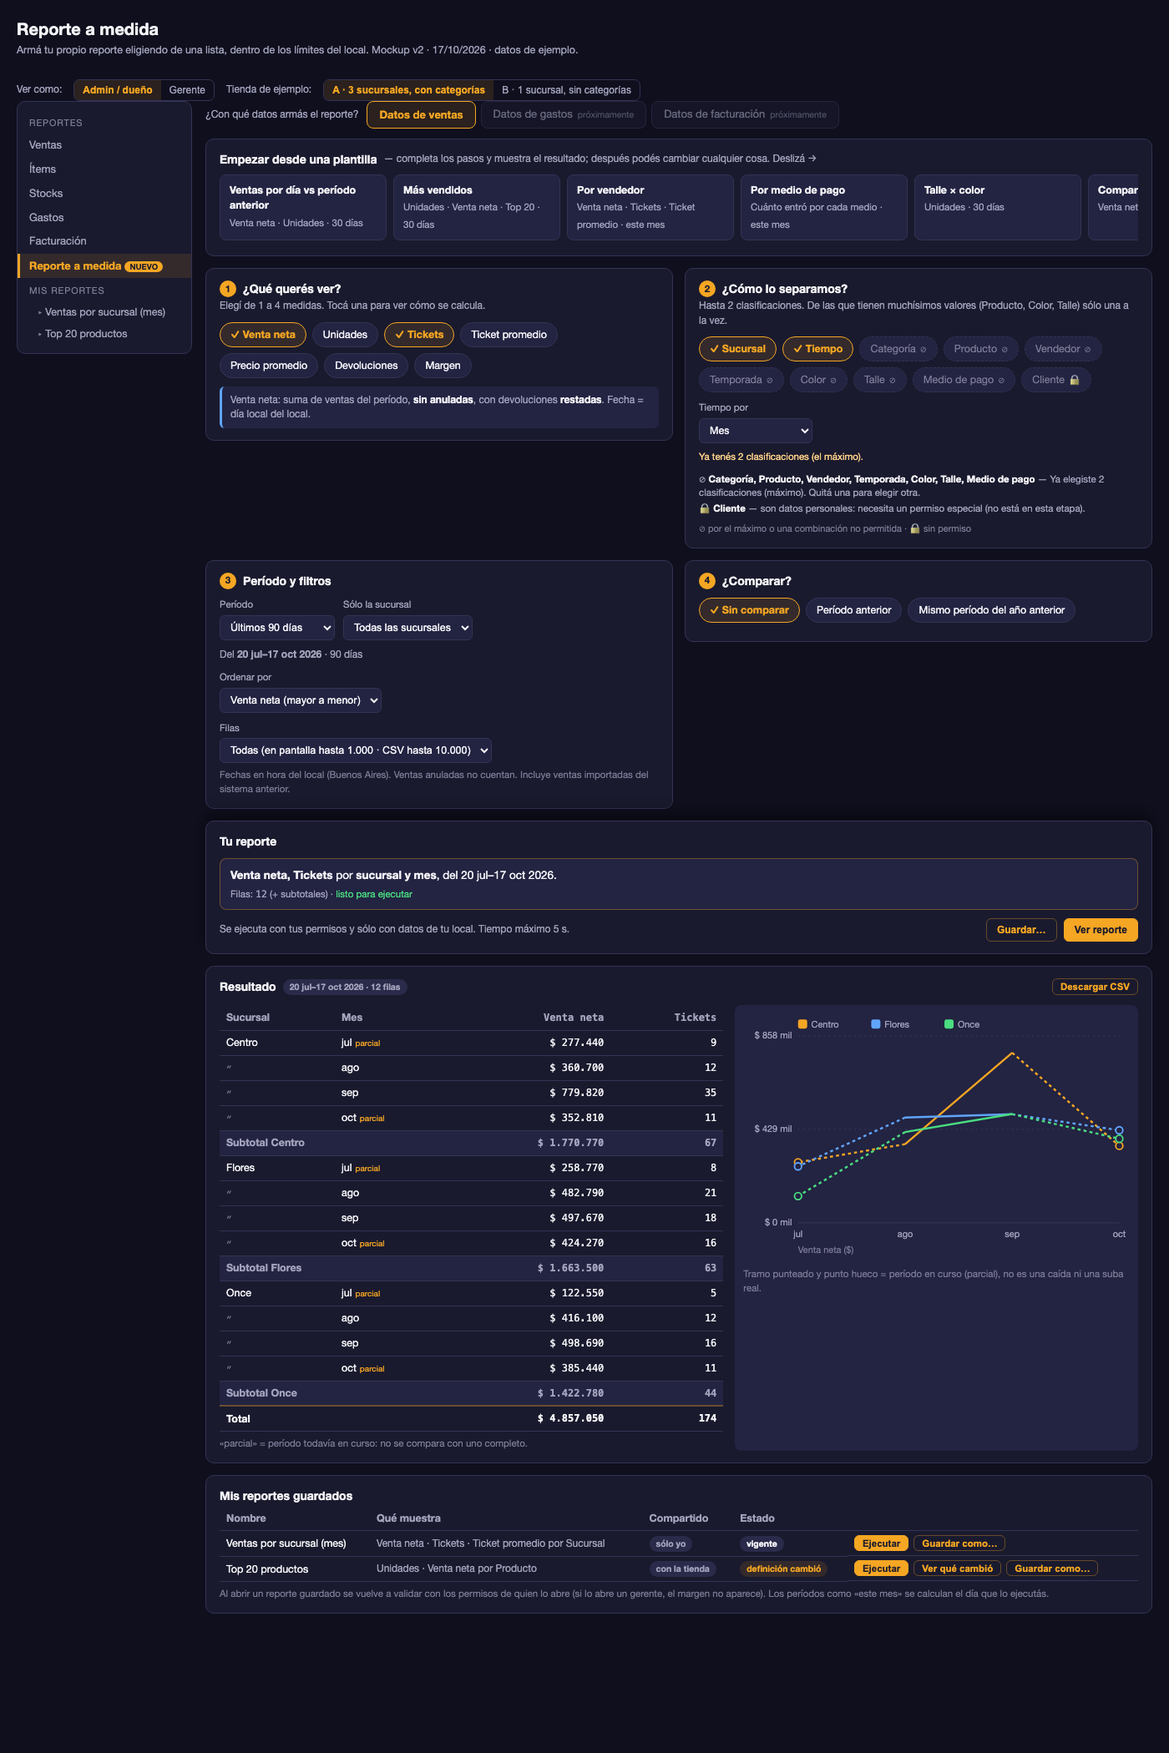
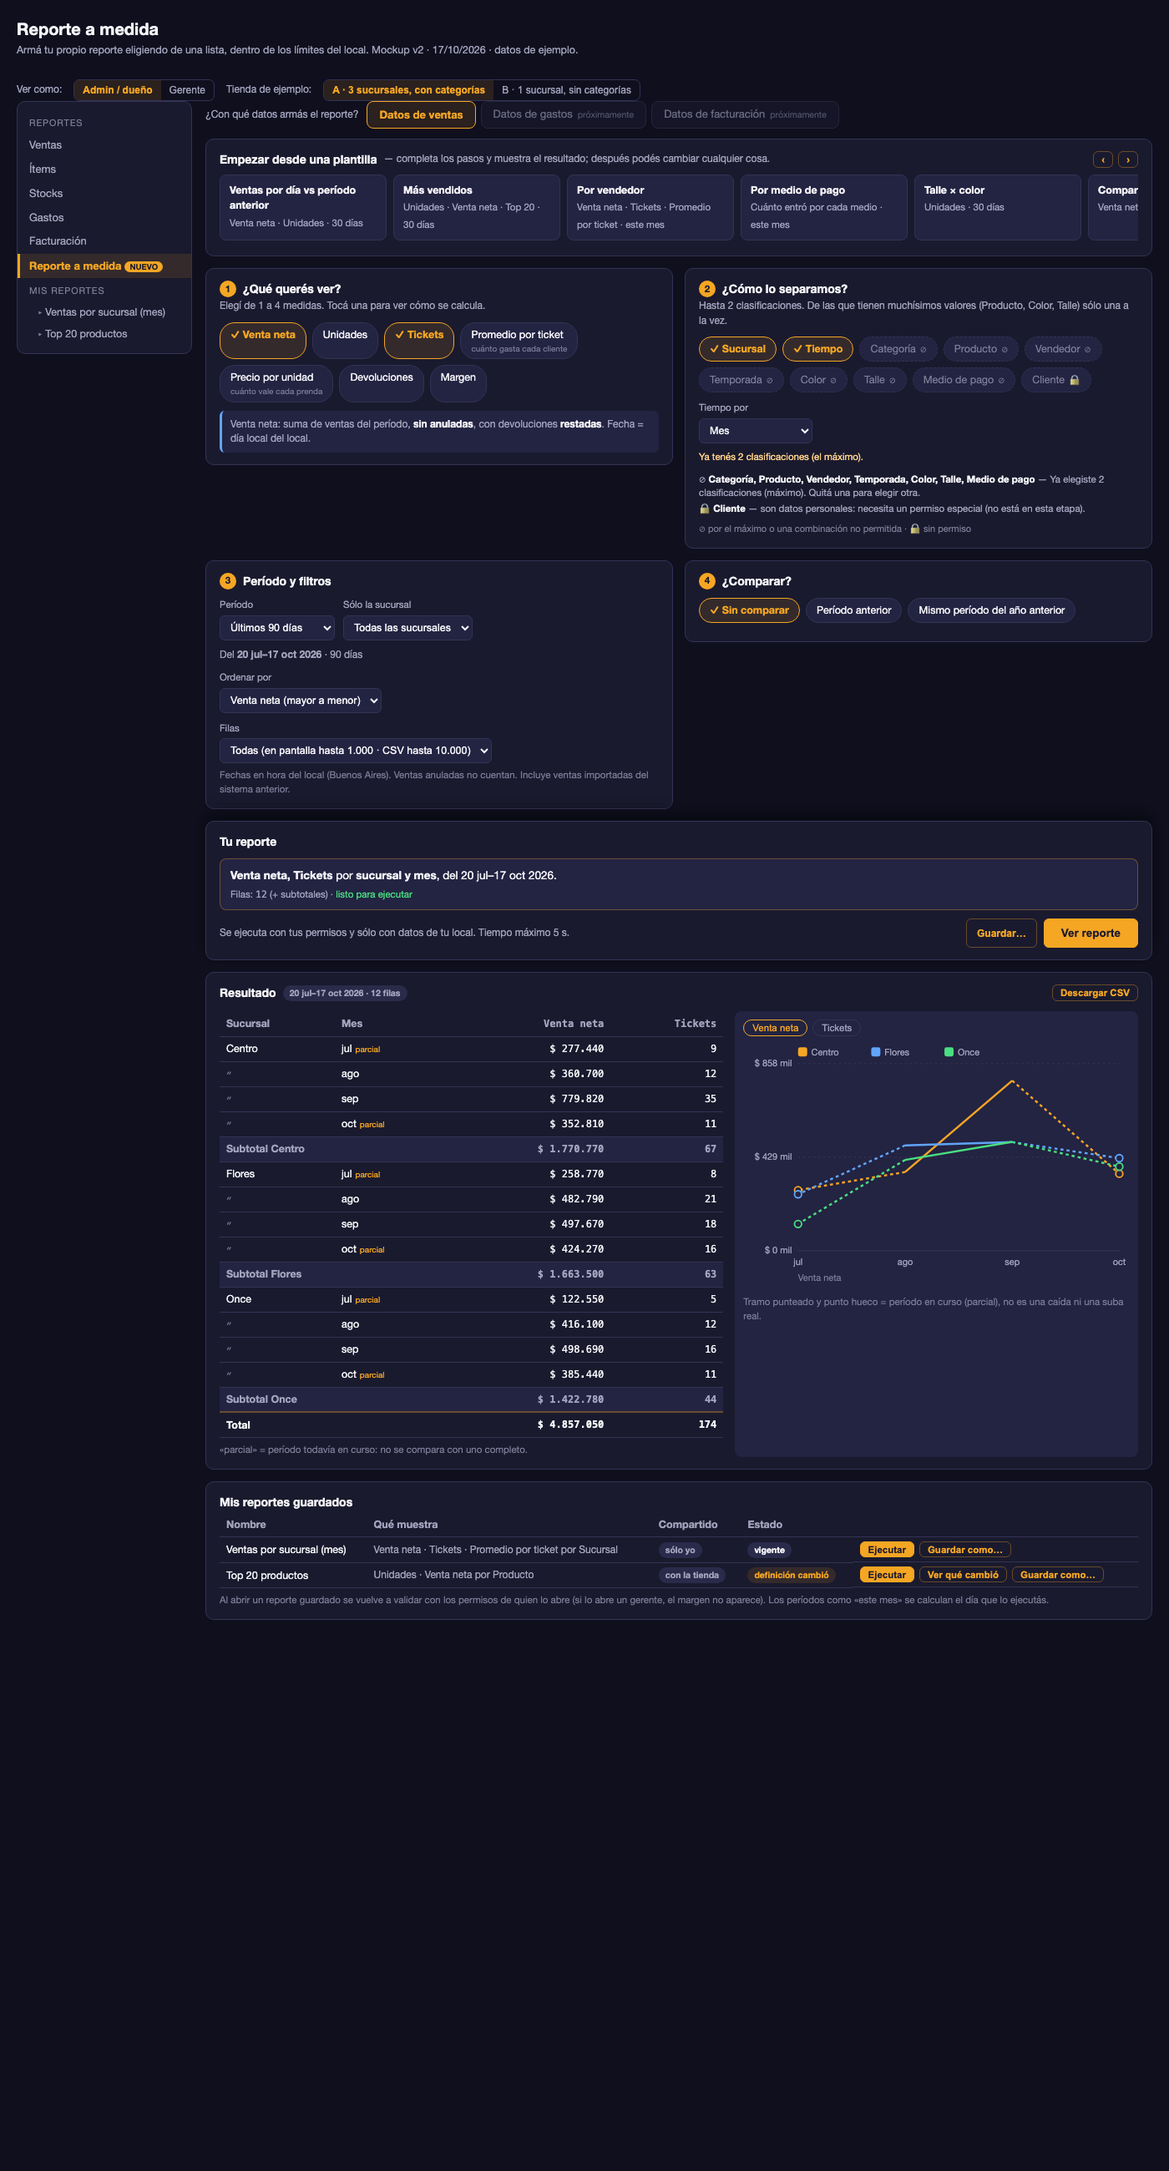
mockup v4 + D-31/D-32: comparación alineada por día de semana, parciales sin comparar, variación del total, gráfico por medida, páginas de 50 filas, nombres «Promedio por ticket» / «Precio por unidad»
Claude-Session: https://claude.ai/code/session_015aWvwfSKzeMPRzDaQknsG2

diff --git a/.planning/mockups/2026-10-17-reportaje-abierto/mockup.html b/.planning/mockups/2026-10-17-reportaje-abierto/mockup.html
@@ -55,6 +55,15 @@ h1{font-size:20px;margin:0 0 2px}
 .opt.auto{border-style:dashed;border-color:var(--mu);color:var(--mu);cursor:default}
 .opt.auto::before{content:'+ '}
 #bar{position:sticky;bottom:0;z-index:5;box-shadow:0 -8px 20px rgba(0,0,0,.45)}
+.tpls::-webkit-scrollbar{height:6px}.tpls::-webkit-scrollbar-thumb{background:var(--s3);border-radius:3px}
+.res.one{grid-template-columns:minmax(0,1fr)}
+.res.one .chart{max-width:520px}
+.headline{margin-top:10px;font-size:13px;background:var(--s2);border-radius:8px;padding:8px 12px}
+.ctabs{display:flex;gap:6px;flex-wrap:wrap;margin-bottom:6px}
+.ctab{background:transparent;border:1px solid var(--bd);color:var(--mu);border-radius:14px;padding:3px 10px;font-size:11.5px;cursor:pointer}
+.ctab.on{border-color:var(--gold);color:var(--gold)}
+#bar .btn.pri{padding:9px 20px;font-size:13.5px}
+.optsub{display:block;font-size:10px;font-weight:400;color:var(--fa)}
 .hint{font-size:11.5px;color:var(--mu);margin-top:8px}
 .hint.near{color:#ffd28a}
 .opt .ic{font-size:11px;margin-left:5px}
@@ -132,7 +141,7 @@ tr.tot td{font-weight:800;border-top:2px solid var(--goldB)}
     </div>
 
     <div class="card">
-      <h3>Empezar desde una plantilla <span class="cap" style="font-weight:400">— completa los pasos y muestra el resultado; después podés cambiar cualquier cosa. Deslizá →</span></h3>
+      <h3>Empezar desde una plantilla <span class="cap" style="font-weight:400">— completa los pasos y muestra el resultado; después podés cambiar cualquier cosa.</span><span style="margin-left:auto;display:flex;gap:6px"><button class="btn sm" data-scroll="-1" aria-label="Plantillas anteriores">‹</button><button class="btn sm" data-scroll="1" aria-label="Más plantillas">›</button></span></h3>
       <div class="tpls" id="tpls"></div>
     </div>
 
@@ -243,8 +252,8 @@ const M=[
  {k:'neto',n:'Venta neta',d:'<b>Venta neta</b>: suma de ventas del período, <b>sin anuladas</b>, con devoluciones <b>restadas</b>. Fecha = día local del local.'},
  {k:'uni',n:'Unidades',d:'<b>Unidades</b>: artículos vendidos menos devueltos. Los traspasos entre sucursales <b>no</b> son venta.'},
  {k:'tick',n:'Tickets',d:'<b>Tickets</b>: cantidad de ventas no anuladas.'},
- {k:'prom',n:'Ticket promedio',d:'<b>Ticket promedio</b> = venta neta ÷ tickets, <b>recalculado en cada fila</b> (no es promedio de promedios).'},
- {k:'aur',n:'Precio promedio',d:'<b>Precio promedio por unidad</b> = venta neta ÷ unidades. Con inflación, ayuda a separar «vendí más caro» de «vendí más».'},
+ {k:'prom',n:'Promedio por ticket',d:'<b>Promedio por ticket</b> = venta neta ÷ tickets, <b>recalculado en cada fila</b> (no es promedio de promedios).'},
+ {k:'aur',n:'Precio por unidad',d:'<b>Precio por unidad por unidad</b> = venta neta ÷ unidades. Con inflación, ayuda a separar «vendí más caro» de «vendí más».'},
  {k:'dev',n:'Devoluciones',d:'<b>Devoluciones</b>: monto devuelto en el período, mostrado aparte (ya está restado de la venta neta).'},
  {k:'marg',n:'Margen',adm:true,d:'<b>Margen</b> = (venta neta − costo) ÷ venta neta, costo por línea. Sólo admin/dueño.'},
 ];
@@ -306,7 +315,7 @@ function rowsEst(){let r=1;st.d.forEach(k=>r*=card(k));if(!st.d.some(k=>D.find(z
 const TPL=[
  {k:'dia',n:'Ventas por día vs período anterior',s:'Venta neta · Unidades · 30 días',st:{m:['neto','uni'],d:['tiempo'],grain:'dia',period:'30',topn:0,cmp:'prev',order:'_nat'}},
  {k:'top',n:'Más vendidos',s:'Unidades · Venta neta · Top 20 · 30 días',st:{m:['uni','neto'],d:['prod'],period:'30',topn:20,cmp:'no',order:'uni'}},
- {k:'vend',n:'Por vendedor',s:'Venta neta · Tickets · Ticket promedio · este mes',st:{m:['neto','tick','prom'],d:['vend'],period:'mes',topn:0,cmp:'no',order:'neto'}},
+ {k:'vend',n:'Por vendedor',s:'Venta neta · Tickets · Promedio por ticket · este mes',st:{m:['neto','tick','prom'],d:['vend'],period:'mes',topn:0,cmp:'no',order:'neto'}},
  {k:'pago',n:'Por medio de pago',s:'Cuánto entró por cada medio · este mes',st:{m:['neto'],d:['pago'],period:'mes',topn:0,cmp:'no',order:'neto'}},
  {k:'tc',n:'Talle × color',s:'Unidades · 30 días',st:{m:['uni'],d:['talle','color'],period:'30',topn:0,cmp:'no',order:'_nat'},need:['color','talle']},
  {k:'suc',n:'Comparar sucursales',s:'Venta neta · Tickets · por mes',st:{m:['neto','tick'],d:['suc','tiempo'],grain:'mes',period:'90',topn:0,cmp:'no',order:'neto'},need:['suc']},
@@ -317,7 +326,7 @@ const TPL=[
 function render(){
   $('#tpls').innerHTML=TPL.map(t=>{const na=t.need&&t.need.some(k=>STORE[st.store][k]);return `<div class="tpl ${t.stock?'stock':''} ${na?'na':''}" data-t="${t.k}" title="${na?'Esta tienda no tiene esos datos':''}"><b>${t.n}</b><span>${na?'No disponible en esta tienda':t.s}</span></div>`}).join('');
   const mR=[],dR=[];
-  $('#metrics').innerHTML=M.map(x=>{const o=metricOff(x);if(o)mR.push([o[0],x.n,o[1]]);return `<div class="opt ${st.m.includes(x.k)?'on':''} ${o?'off':''}" data-k="${x.k}">${x.n}${o?`<span class="ic">${o[0]}</span>`:''}</div>`}).join('');
+  $('#metrics').innerHTML=M.map(x=>{const o=metricOff(x);if(o)mR.push([o[0],x.n,o[1]]);const sub=x.k==='prom'?'cuánto gasta cada cliente':x.k==='aur'?'cuánto vale cada prenda':'';return `<div class="opt ${st.m.includes(x.k)?'on':''} ${o?'off':''}" data-k="${x.k}">${x.n}${o?`<span class="ic">${o[0]}</span>`:''}${sub?`<span class="optsub">${sub}</span>`:''}</div>`}).join('');
   $('#dims').innerHTML=D.map(x=>{const o=dimOff(x);if(o&&!st.d.includes(x.k))dR.push([o[0],x.n,o[1]]);return `<div class="opt ${st.d.includes(x.k)?'on':''} ${o&&!st.d.includes(x.k)?'off':''}" data-k="${x.k}">${x.n}${o&&!st.d.includes(x.k)?`<span class="ic">${o[0]}</span>`:''}</div>`}).join('');
   const grp=a=>{const m=new Map();a.forEach(([ic,n,why])=>{const k=ic+'|'+why;m.set(k,[...(m.get(k)||[]),n])});return [...m].map(([k,ns])=>{const[ic,why]=k.split('|');return `<li>${ic} <b>${ns.join(', ')}</b> — ${why}</li>`}).join('')};
   $('#mReasons').innerHTML=grp(mR);$('#dReasons').innerHTML=grp(dR);
@@ -347,11 +356,14 @@ function render(){
   document.querySelectorAll('#cmp .opt').forEach(o=>o.classList.toggle('on',o.dataset.c===st.cmp));
   document.querySelectorAll('#role button').forEach(b=>b.classList.toggle('on',b.dataset.r===st.role));
   document.querySelectorAll('#store button').forEach(b=>b.classList.toggle('on',b.dataset.s===st.store));
-  $('#cmpTxt').innerHTML=st.cmp==='prev'?`Contra el ${rangeLabel(prevRange(r))} (mismo largo, inmediatamente antes).`:st.cmp==='yoy'?`Contra el ${rangeLabel([addD(r[0],-365),addD(r[1],-365)])}.`:'';
-  if(st.cmp!=='no')$('#cmpTxt').innerHTML+=' <span style="color:var(--mu)">Con inflación los pesos solos engañan: se agregan Unidades, Tickets y Precio promedio (marcados con «+» en el paso 1).</span>';
+  const why=isCal()?'mismas fechas del mes':'mismos días de la semana, para que un sábado se compare con un sábado';
+  $('#cmpTxt').innerHTML=st.cmp==='prev'?`Contra el ${rangeLabel(prevRange(r))} (${why}).`:st.cmp==='yoy'?`Contra el ${rangeLabel(yoyRange(r))} (${isCal()?'mismas fechas del año anterior':'52 semanas antes, mismos días de la semana'}).`:'';
+  if(st.cmp!=='no')$('#cmpTxt').innerHTML+=' <span style="color:var(--mu)">Con inflación los pesos solos engañan: se agregan Unidades, Tickets y Precio por unidad (marcados con «+» en el paso 1).</span>';
   validate();renderSaved();
 }
-function prevRange(r){const n=days(r);return[addD(r[0],-n),addD(r[0],-1)]}
+function isCal(){return st.period==='mes'||st.period==='mesant'}
+function prevRange(r){if(isCal()){const s=new Date(r[0].getFullYear(),r[0].getMonth()-1,1);const e=new Date(s.getFullYear(),s.getMonth(),Math.min(r[1].getDate(),new Date(s.getFullYear(),s.getMonth()+1,0).getDate()));return[s,e]}const k=Math.ceil(days(r)/7)*7;return[addD(r[0],-k),addD(r[1],-k)]}
+function yoyRange(r){if(isCal())return[new Date(r[0].getFullYear()-1,r[0].getMonth(),r[0].getDate()),new Date(r[1].getFullYear()-1,r[1].getMonth(),r[1].getDate())];return[addD(r[0],-364),addD(r[1],-364)]}
 
 let BLOCK=false;
 function validate(){
@@ -411,30 +423,39 @@ function run(){
   const allRows=groups.flatMap(g=>g.rows);const total=agg(allRows.map(x=>x.c));
   const dl=st.d.map(k=>k==='tiempo'?({dia:'Día',semana:'Semana',mes:'Mes',dow:'Día',hora:'Hora'})[st.grain]:D.find(z=>z.k===k).n);
   let html=`<tr>${dl.map(l=>`<th>${l}</th>`).join('')}${cols.map(k=>`<th class="n ${auto.includes(k)?'auto':''}" title="${auto.includes(k)?'agregada al comparar':''}">${M.find(z=>z.k===k).n}${auto.includes(k)?' ·':''}</th>`).join('')}${st.cmp!=='no'?'<th class="n">Var. venta</th><th class="n">Var. unid.</th>':''}</tr>`;
-  const vc=o=>st.cmp!=='no'?`<td class="n ${o.v>=0?'up':'dn'}">${o.v>=0?'▲':'▼'} ${Math.abs(o.v)} %</td><td class="n ${o.vu>=0?'up':'dn'}">${o.vu>=0?'▲':'▼'} ${Math.abs(o.vu)} %</td>`:'';
-  let shown=0;const LIM=20;
+  const sg=v=>(v>=0?'▲ +':'▼ −')+Math.abs(v)+' %';
+  const vc=(o,p)=>st.cmp==='no'?'':p?`<td class="n cap" colspan="2">parcial · sin comparar</td>`:`<td class="n ${o.v>=0?'up':'dn'}">${sg(o.v)}</td><td class="n">${sg(o.vu)}</td>`;
+  let shown=0;const LIM=50;
   for(const g of groups){
     for(const row of g.rows){if(shown>=LIM)break;shown++;
-      html+=`<tr>${row.l.map((v,i)=>`<td>${i===0&&st.d.length===2&&row!==g.rows[0]?'<span style="color:var(--fa)">〃</span>':v}${(i===row.l.length-1&&row.p)||(i===0&&g.p&&row===g.rows[0]&&st.d[0]==='tiempo')?'<span class="pz">parcial</span>':''}</td>`).join('')}${cols.map(k=>`<td class="n">${metricVal(row.c,k)}</td>`).join('')}${vc(row.c)}</tr>`}
-    if(st.d.length===2&&shown<LIM)html+=`<tr class="sub"><td colspan="2">Subtotal ${g.label}</td>${cols.map(k=>`<td class="n">${metricVal(g.sub,k)}</td>`).join('')}${vc(g.sub)}</tr>`;
+      html+=`<tr>${row.l.map((v,i)=>`<td>${i===0&&st.d.length===2&&row!==g.rows[0]?'<span style="color:var(--fa)">〃</span>':v}${(i===row.l.length-1&&row.p)||(i===0&&g.p&&row===g.rows[0]&&st.d[0]==='tiempo')?'<span class="pz">parcial</span>':''}</td>`).join('')}${cols.map(k=>`<td class="n">${metricVal(row.c,k)}</td>`).join('')}${vc(row.c,row.p)}</tr>`}
+    if(st.d.length===2&&shown<LIM)html+=`<tr class="sub"><td colspan="2">Subtotal ${g.label}</td>${cols.map(k=>`<td class="n">${metricVal(g.sub,k)}</td>`).join('')}${vc(g.sub,g.p)}</tr>`;
     if(shown>=LIM)break}
   if(st.d.length)html+=`<tr class="tot"><td colspan="${st.d.length}">Total</td>${cols.map(k=>`<td class="n">${metricVal(total,k)}</td>`).join('')}${vc(total)}</tr>`;
   const nRows=allRows.length;
   $('#resBody').className='';
-  $('#resBody').innerHTML=`<div class="res"><div class="tblwrap"><table>${html}</table><div class="note">${nRows>LIM?`Mostrando ${LIM} de ${nRows} filas — el CSV trae todas. `:''}${auto.length?'Las columnas en cursiva (·) se agregan solas al comparar. ':''}${st.m.includes('prom')?'Ticket promedio recalculado por fila (venta ÷ tickets). ':''}${allRows.some(x=>x.p)||groups.some(g=>g.p)?'«parcial» = período todavía en curso: no se compara con uno completo.':''}</div></div><div class="chart"><svg id="svg" viewBox="0 0 380 240" width="100%"></svg><div class="note" id="chartNote"></div></div></div>`;
+  const headline=st.cmp!=='no'?`<div class="headline">Total del período: <b>Venta neta ${sg(total.v)}</b> · Unidades ${sg(total.vu)} <span class="cap">— mirá el total; día por día la variación es más ruidosa.</span></div>`:'';
+  const chartKs=cols.filter(k=>k!=='marg'||st.role==='admin');if(!chartKs.includes(st.chartM))st.chartM=chartKs[0];
+  const tabs=chartKs.length>1?`<div class="ctabs">${chartKs.map(k=>`<button class="ctab ${k===st.chartM?'on':''}" data-cm="${k}">${M.find(z=>z.k===k).n}</button>`).join('')}</div>`:'';
+  const wide=cols.length+(st.cmp!=='no'?2:0)+st.d.length>6;
+  $('#resBody').innerHTML=headline+`<div class="res${wide?' one':''}"><div class="tblwrap"><table>${html}</table><div class="note">${nRows>LIM?`Página 1 de ${Math.ceil(nRows/LIM)} (de a ${LIM} filas) · <a href='#' style='color:var(--gold)'>Siguiente ›</a> — el CSV trae todas. `:''}${auto.length?'Las columnas en cursiva (·) se agregan solas al comparar. ':''}${st.m.includes('prom')?'Promedio por ticket = venta ÷ tickets de cada fila; Precio por unidad = venta ÷ unidades. ':''}${allRows.some(x=>x.p)||groups.some(g=>g.p)?'«parcial» = período todavía en curso: no se compara con uno completo.':''}</div></div><div class="chart">${tabs}<svg id="svg" viewBox="0 0 380 240" width="100%"></svg><div class="note" id="chartNote"></div></div></div>`;
   $('#resMeta').textContent=`${rangeLabel(r)} · ${nRows} filas`;$('#resMeta').className='chip c-mu';
   $('#resBtns').innerHTML='<button class="btn sm">Descargar CSV</button>';
-  drawChart(groups,B,r);
+  LASTRUN={groups,B,r};drawChart(groups,B,r);
+  if(window.innerWidth<980)$('#result').scrollIntoView({behavior:'smooth'});
 }
-function drawChart(groups,B,r){
+let LASTRUN=null;
+function mv(o,k){return k==='prom'?o.neto/o.tick:k==='aur'?o.neto/o.uni:k==='marg'?o.marg:o[k]}
+function axf(k,v){return ['neto','prom','aur','dev'].includes(k)?short(v):k==='marg'?Math.round(v)+' %':Math.round(v).toLocaleString('es-AR')}
+function drawChart(groups,B,r){const K=st.chartM||'neto';const KN=M.find(z=>z.k===K).n;
   const svg=$('#svg');const W=380,H=240,L=54,R=10,T=22,Bm=34;const PW=W-L-R,PH=H-T-Bm;
   const tIdx=st.d.indexOf('tiempo');let s='';let note='';
-  const axis=(max)=>{let a='';[0,.5,1].forEach(q=>{const y=T+PH-q*PH;a+=`<line x1="${L}" y1="${y}" x2="${W-R}" y2="${y}" stroke="#333355" stroke-dasharray="${q?'2 3':''}"/><text x="${L-6}" y="${y+3}" fill="#a3a3bd" font-size="9" text-anchor="end">${short(max*q)}</text>`});return a};
+  const axis=(max)=>{let a='';[0,.5,1].forEach(q=>{const y=T+PH-q*PH;a+=`<line x1="${L}" y1="${y}" x2="${W-R}" y2="${y}" stroke="#333355" stroke-dasharray="${q?'2 3':''}"/><text x="${L-6}" y="${y+3}" fill="#a3a3bd" font-size="9" text-anchor="end">${axf(K,max*q)}</text>`});return a};
   if(tIdx>=0&&st.grain!=='dow'&&st.grain!=='hora'||tIdx>=0){
     let series=[];
-    if(st.d.length===1)series=[{n:'Venta neta',pts:groups[0].rows.map(x=>({v:x.c.neto,p:x.p}))}];
-    else if(tIdx===1)series=groups.slice(0,5).map(g=>({n:g.label,pts:g.rows.map(x=>({v:x.c.neto,p:x.p}))}));
-    else{const others=st.d[1];const vs=groups[0].rows.map(x=>x.l[1]).slice(0,5);series=vs.map(v=>({n:v,pts:groups.map(g=>{const x=g.rows.find(z=>z.l[1]===v);return{v:x?x.c.neto:0,p:g.p}})}));if(groups[0].rows.length>5)note='Se muestran las 5 primeras; el resto está en la tabla.'}
+    if(st.d.length===1)series=[{n:KN,pts:groups[0].rows.map(x=>({v:mv(x.c,K),p:x.p}))}];
+    else if(tIdx===1)series=groups.slice(0,5).map(g=>({n:g.label,pts:g.rows.map(x=>({v:mv(x.c,K),p:x.p}))}));
+    else{const others=st.d[1];const vs=groups[0].rows.map(x=>x.l[1]).slice(0,5);series=vs.map(v=>({n:v,pts:groups.map(g=>{const x=g.rows.find(z=>z.l[1]===v);return{v:x?mv(x.c,K):0,p:g.p}})}));if(groups[0].rows.length>5)note='Se muestran las 5 primeras; el resto está en la tabla.'}
     const n=series[0].pts.length;const max=Math.max(1,...series.flatMap(x=>x.pts.map(p=>p.v)))*1.1;
     s+=axis(max);
     const X=i=>L+(n===1?PW/2:i*PW/(n-1)),Y=v=>T+PH-v/max*PH;
@@ -449,12 +470,12 @@ function drawChart(groups,B,r){
     if(st.cmp!=='no'&&series.length===1)note+='Línea gris punteada = período comparado. ';
     if(series.some(se=>se.pts.some(p=>p.p)))note+='Tramo punteado y punto hueco = período en curso (parcial), no es una caída ni una suba real.';
   }else{
-    const items=(st.d.length===2?groups.map(g=>({l:g.label,v:g.sub.neto})):groups[0].rows.map(x=>({l:x.l[0]||'Total',v:x.c.neto}))).slice(0,10);
+    const items=(st.d.length===2?groups.map(g=>({l:g.label,v:mv(g.sub,K)})):groups[0].rows.map(x=>({l:x.l[0]||'Total',v:mv(x.c,K)}))).slice(0,10);
     const max=Math.max(1,...items.map(i=>i.v))*1.1;s+=axis(max);const bw=PW/items.length;
     items.forEach((it,i)=>{const hh=it.v/max*PH;s+=`<rect x="${L+i*bw+3}" y="${T+PH-hh}" width="${bw-6}" height="${hh}" rx="3" fill="#f5a623" opacity="${1-i*0.05}"/><text x="${L+i*bw+bw/2}" y="${H-Bm+14}" fill="#a3a3bd" font-size="8.5" text-anchor="middle">${String(it.l).slice(0,9)}</text>`});
     if(st.d.length===2)note='Barras = subtotal por '+D.find(z=>z.k===st.d[0]).n.toLowerCase()+'.';
   }
-  s+=`<text x="${L}" y="${H-4}" fill="#7d7d98" font-size="9">Venta neta ($)</text>`;
+  s+=`<text x="${L}" y="${H-4}" fill="#7d7d98" font-size="9">${KN}</text>`;
   svg.innerHTML=s;$('#chartNote').textContent=note;
 }
 
@@ -482,6 +503,8 @@ document.addEventListener('click',e=>{
   const rv=e.target.closest('[data-rev]');if(rv){$('#diff').classList.add('show');return}
   if(e.target.id==='okDiff'){SAVED[1].status='ok';$('#diff').classList.remove('show');renderSaved();return}
   const du=e.target.closest('[data-dup]');if(du){const sv=SAVED[+du.dataset.dup];SAVED.push({name:sv.name+' (copia)',sh:false,st:JSON.parse(JSON.stringify(sv.st)),status:'ok'});renderSaved();return}
+  const ct=e.target.closest('[data-cm]');if(ct){st.chartM=ct.dataset.cm;document.querySelectorAll('.ctab').forEach(b=>b.classList.toggle('on',b===ct));if(LASTRUN)drawChart(LASTRUN.groups,LASTRUN.B,LASTRUN.r);return}
+  const ar=e.target.closest('[data-scroll]');if(ar){$('#tpls').scrollBy({left:+ar.dataset.scroll*420,behavior:'smooth'});return}
   if(e.target.id==='runBtn'&&!BLOCK){run();return}
   if(e.target.id==='saveBtn'&&!BLOCK){SAVED.push({name:'Mi reporte '+(SAVED.length+1),sh:false,st:JSON.parse(JSON.stringify({m:st.m,d:st.d,grain:st.grain,period:st.period,topn:st.topn,cmp:st.cmp,order:st.order})),status:'ok'});renderSaved();st.lastNote='Guardado en «Mis reportes» (menú izquierdo): un clic lo vuelve a ejecutar con las fechas del día.';validate();return}
 });

diff --git a/.planning/phases/117-reportaje-abierto-el-usuario-arma-un-pedido-de-reporte-cat-l/117-CONTEXT.md b/.planning/phases/117-reportaje-abierto-el-usuario-arma-un-pedido-de-reporte-cat-l/117-CONTEXT.md
@@ -63,6 +63,9 @@ como tipo propio, gastos, cliente como dimensión.
 - **D-29:** Nombre visible del menú: **«Reporte a medida»** (reemplaza «Reportaje abierto» en UI y textos; slugs/tablas nuevas con ese nombre).
 - **D-30 (defaults aceptados de la investigación):** `NONE` y `General` cuentan como «sin valor» para D-19 · categoría/temporada = `COALESCE(hijo, madre)` · Ticket promedio bloqueado con agrupaciones de nivel ítem (producto/color/talle) · margen con el mismo tratamiento de devoluciones que Ganancia · alcance de sucursales = tienda completa (igual que los reportes actuales hoy; `resolveAllowedBranchIds` queda para después) · devoluciones sólo por sucursal y tiempo (la fila de devolución no tiene vendedor ni ítems).
 
+- **D-31 (revisión externa del mockup, 2026-10-17):** Comparación **alineada por día de la semana**: período rodante (7/30/90 días) → período anterior desplazado `ceil(n/7)*7` días; año anterior → **364 días** (52 semanas). Períodos de calendario («este mes», «mes anterior») → mismas fechas del mes/año anterior. Filas/buckets **parciales no se comparan** (se devuelven marcados como parcial). La respuesta incluye la **variación del total** (venta neta y unidades) para destacarla sobre la variación por fila.
+- **D-32 (nombres visibles):** «Ticket promedio» → **«Promedio por ticket»**; «Precio promedio» → **«Precio por unidad»** (claves internas sin cambio).
+
 ### Claude's Discretion (valores de CODEX salvo que la investigación pida otro)
 - Límites MVP: ≤2 agrupaciones (≤1 de «muchas filas»: producto/vendedor/color/talle según cardinalidad real) · por día ≤90 días, semana/mes ≤12 meses · pantalla ≤1.000 filas (preview 20–50) · CSV ≤10.000 · Top ≤100 · timeout 5 s (CSV 20 s), sin reintento automático · 1 ejecución a la vez por tienda y por usuario · semáforo global 4–6.
 - Combinaciones prohibidas: producto×día sin Top y >31 días · producto×medio de pago · ticket/ticket promedio × medio de pago · comparación año anterior >90 días.
